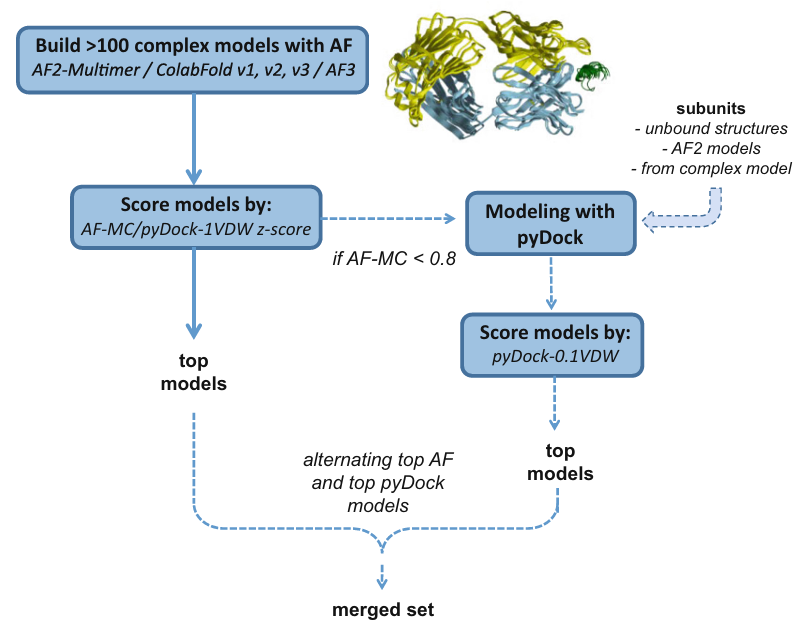
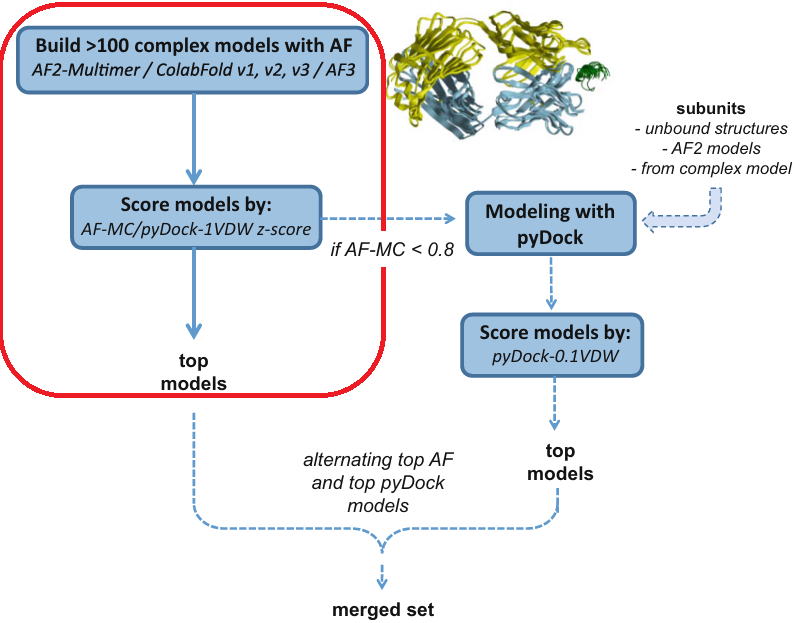
Scheme explanation

diff --git a/README.md b/README.md
@@ -101,6 +101,20 @@ When **AF-MC < 0.8**, the pipeline automatically falls back to **classical pyDoc
   <img src="Fig.1_Scheme.png" alt="Fig.1_Scheme.png" width="600"/>
 </p>
 
+In this repository, **only the components highlighted in the red box of the figure are implemented**, namely:
+
+* Generation of AlphaFold2-Multimer models using **ColabFold** (optional use AlphaFold3 server)
+* Extraction of **ipTM** and **pTM**
+* Computation of **Model Confidence (AF-MC)**
+* Calculation of **pyDock energy scoring** for AF2-generated complexes
+
+The remaining module—**the docking stage starting from monomeric or unbound structures**—is **not included** here.
+If docking poses are needed, they can be generated via the **pyDockWEB server**:
+
+👉 [https://life.bsc.es/pid/pydockweb](https://life.bsc.es/pid/pydockweb)
+
+---
+
 ## 📘 Case Studies Included
 
 1. **VHH–RNase A (4POU)**
